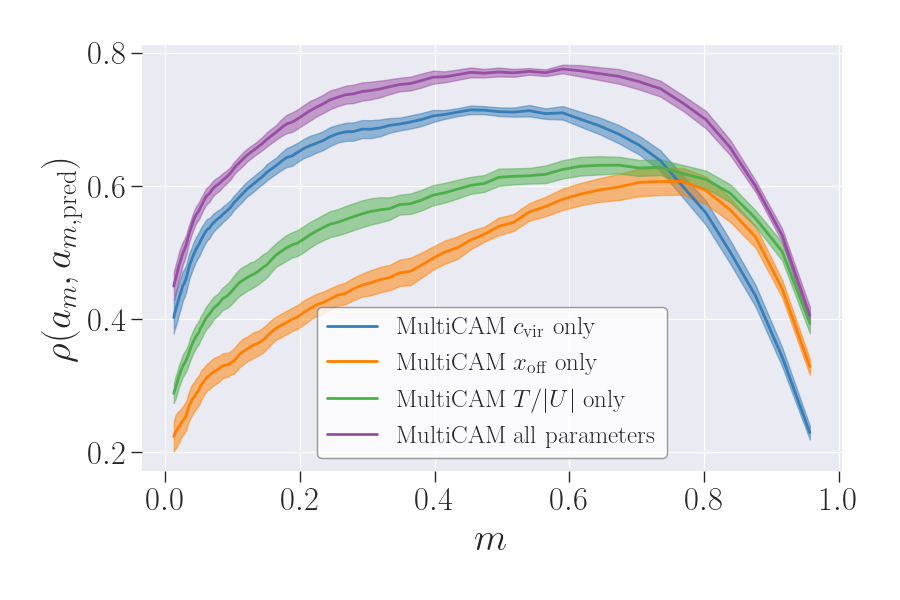
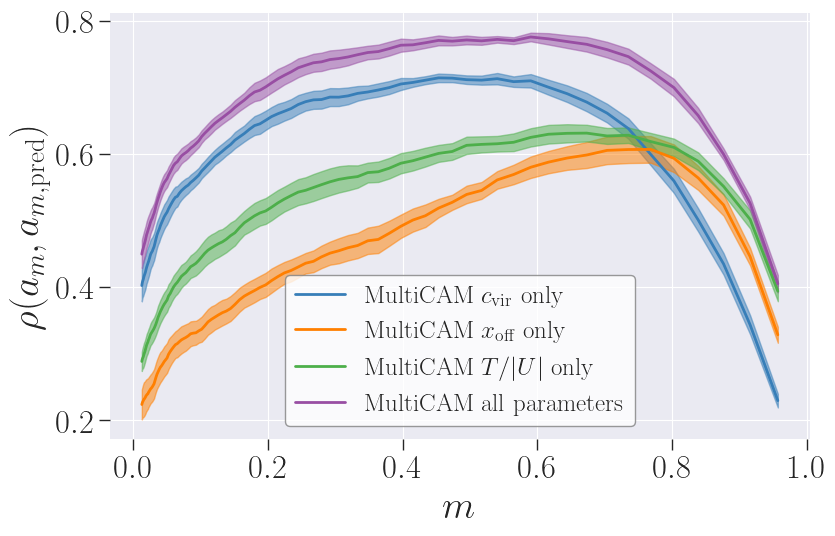
remove extra whitespace to avoid cropping (#114)

diff --git a/bin/figures.py b/bin/figures.py
@@ -74,7 +74,7 @@ class Figure(ABC):
         self._set_rc()
         figs = self.get_figures(data.item())
         for name, fig in figs.items():
-            fig.savefig(FIGS_DIR.joinpath(name).with_suffix(self.ext))
+            fig.savefig(FIGS_DIR.joinpath(name).with_suffix(self.ext), bbox_inches="tight")
 
 
 class CorrelationMAH(Figure):
